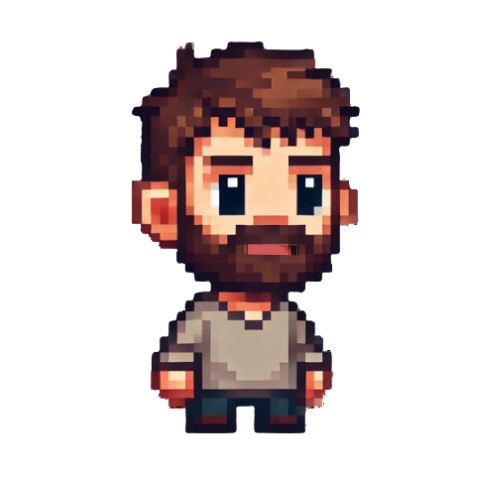
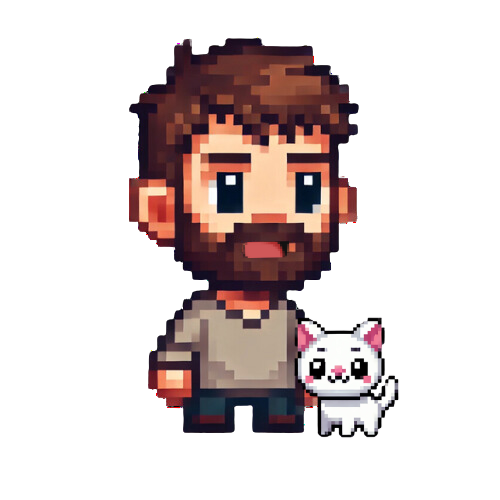
Added kitty to eddie sprite.

Changed region(s): [[0.24, 0.06, 0.81, 0.9], [0.45, 0.81, 0.54, 0.87]]

diff --git a/src/main/java/tech/makers/demo/gui/HomeScreen.java b/src/main/java/tech/makers/demo/gui/HomeScreen.java
@@ -26,7 +26,7 @@ public class HomeScreen {
         layout.setStyle("-fx-padding: 20; -fx-alignment: center; -fx-background-color: white;");
 
         // Load and add the logo image
-        Image logo = new Image(Objects.requireNonNull(getClass().getResourceAsStream("/tech/makers/demo/images/Journey.png")));
+        Image logo = new Image(Objects.requireNonNull(getClass().getResourceAsStream("/tech/makers/demo/images/logo.png")));
         ImageView logoView = new ImageView(logo);
         logoView.setFitWidth(300);
         logoView.setPreserveRatio(true);
